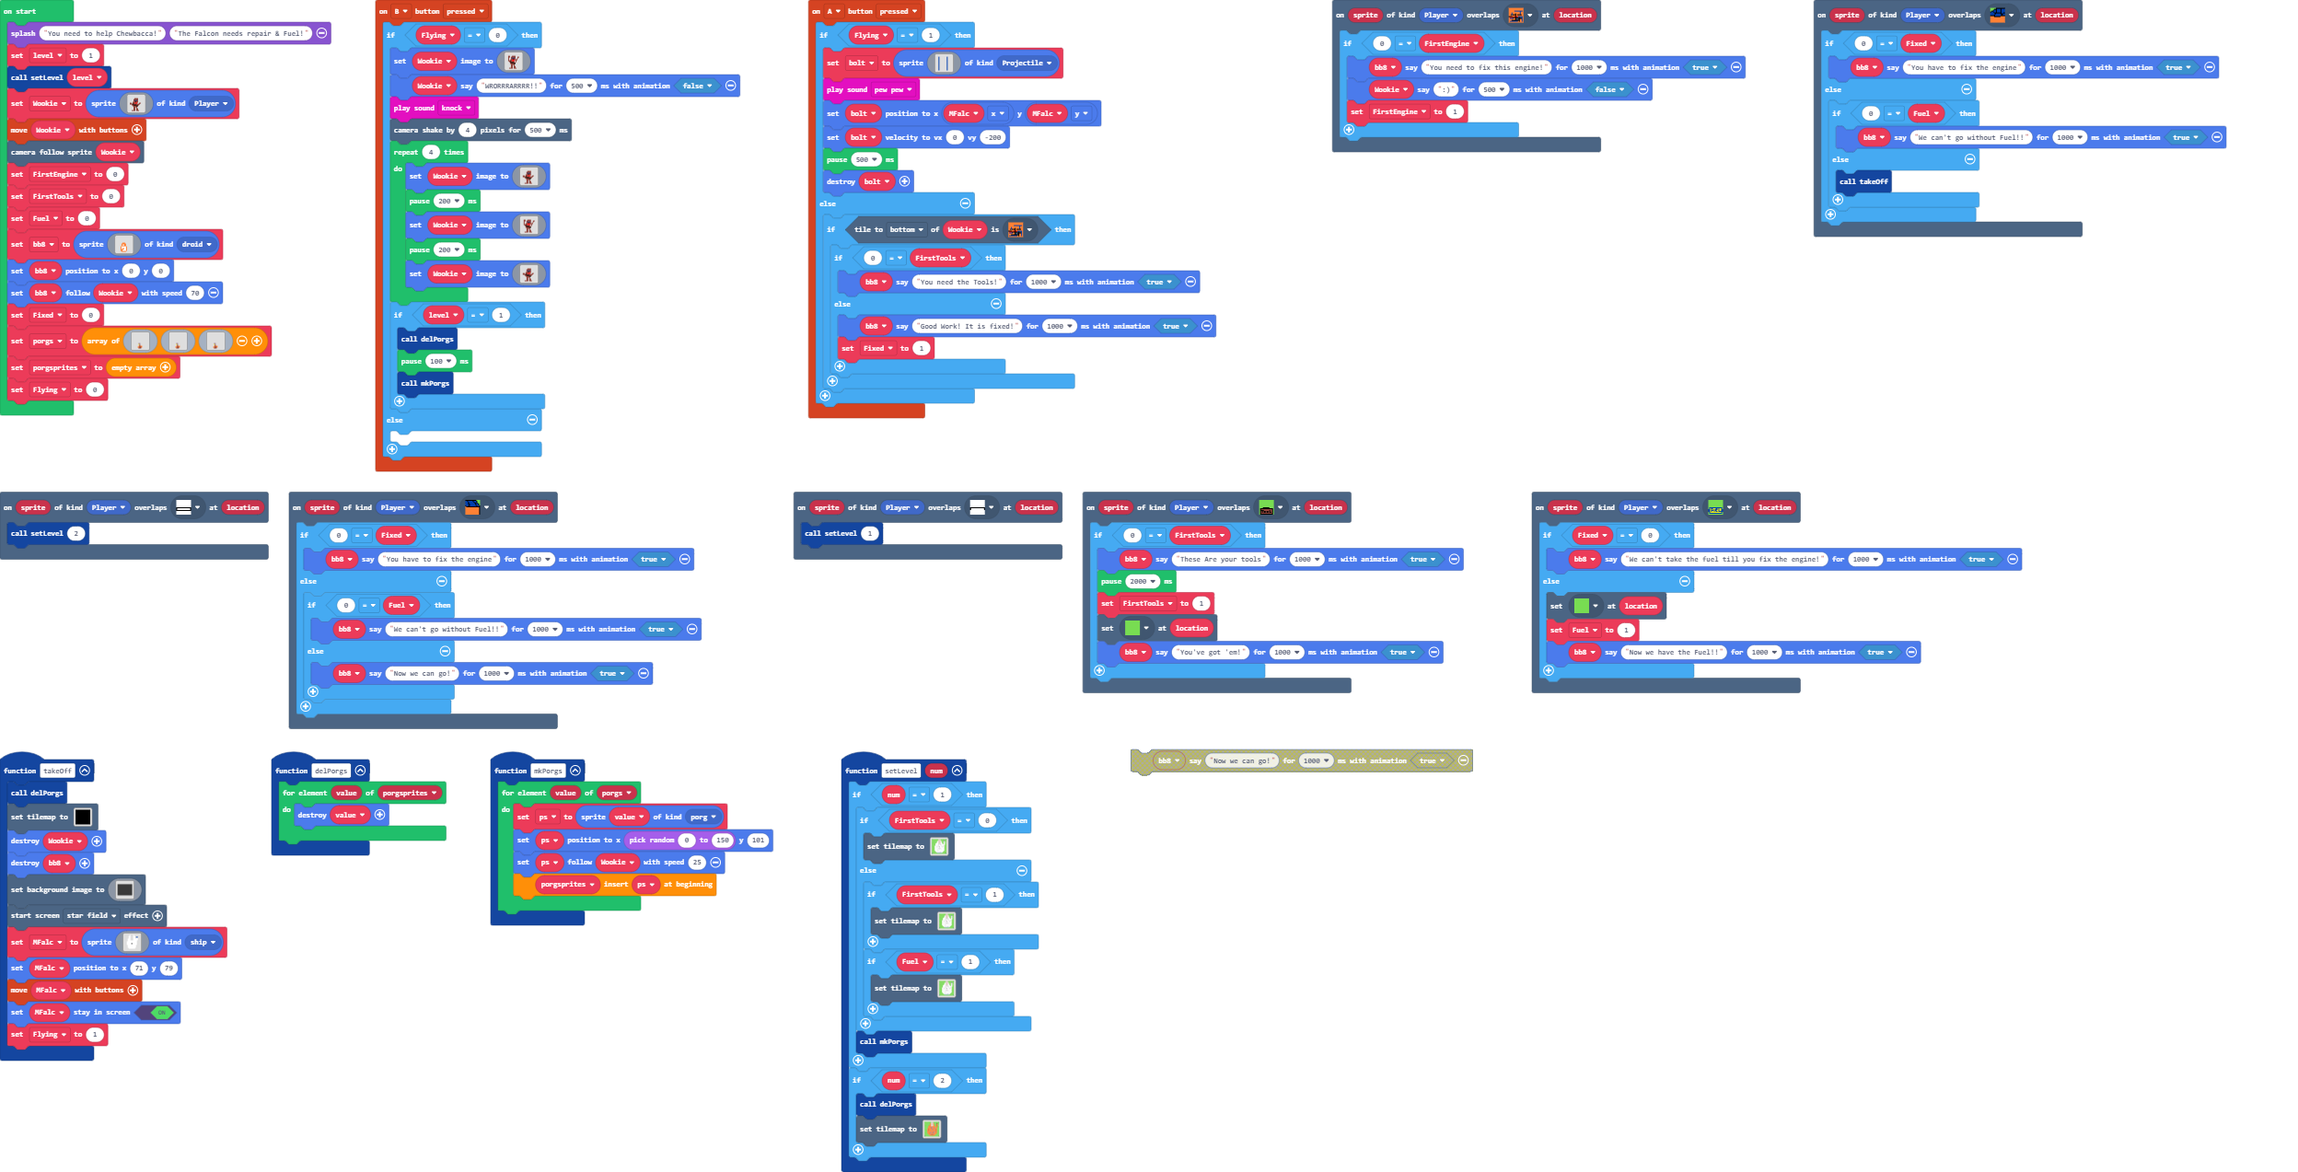
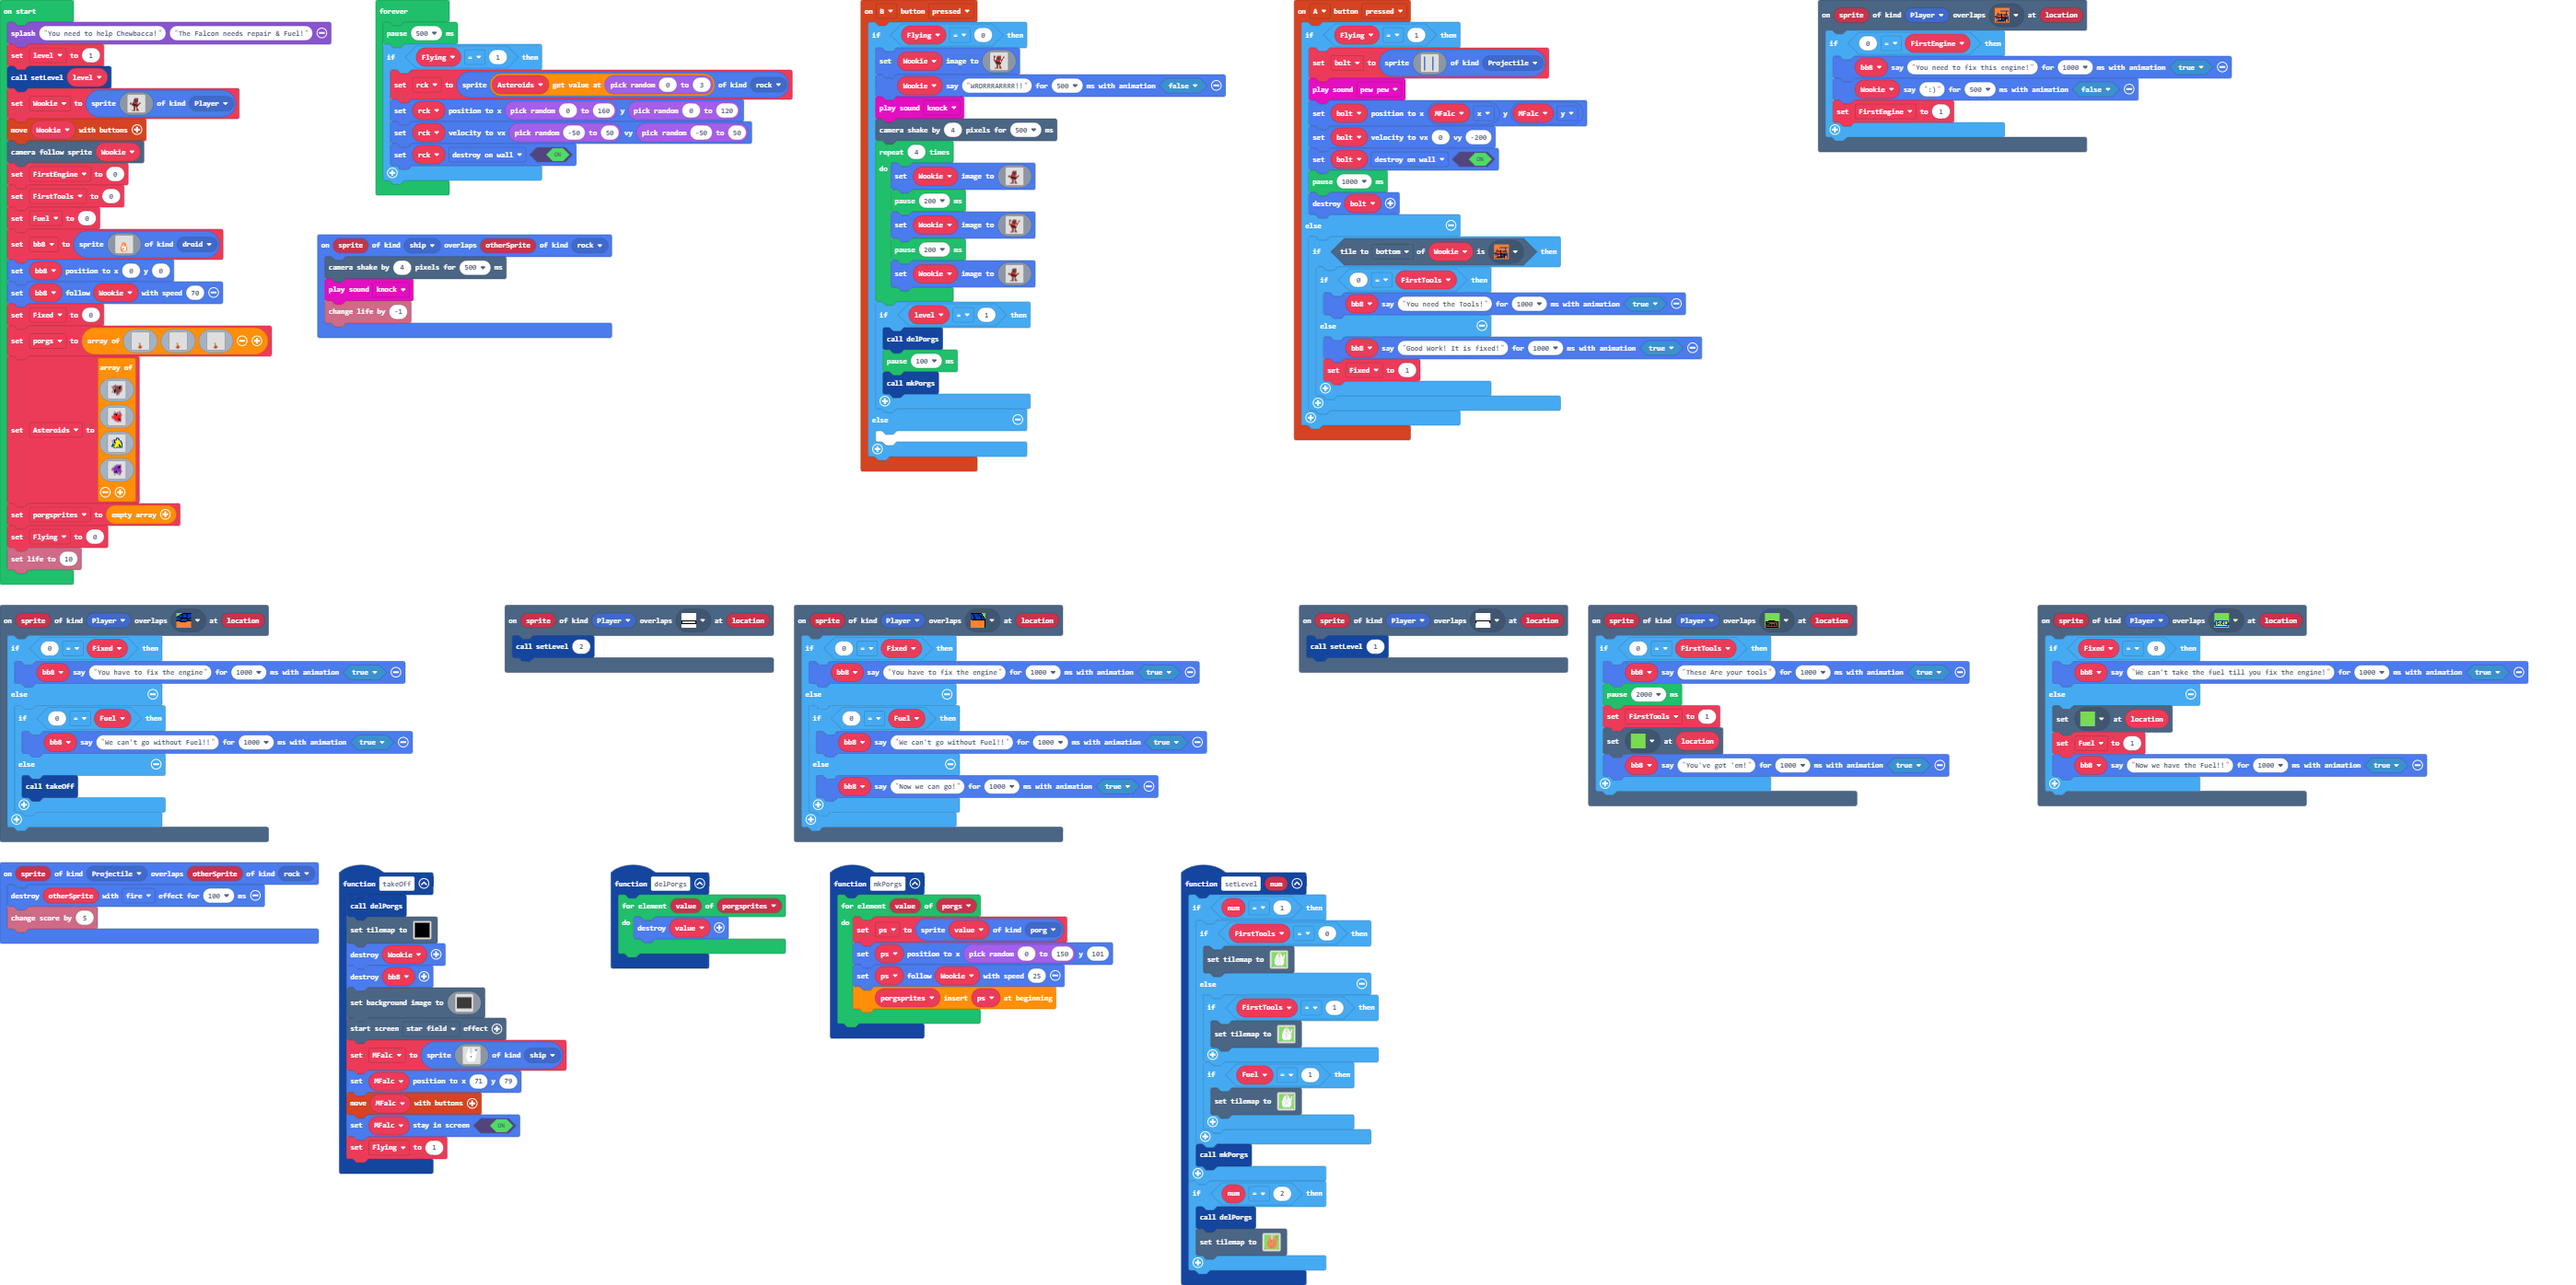
Update main.blocks, main.ts, images.g.jres, images.g.ts

diff --git a/images.g.ts b/images.g.ts
@@ -117,6 +117,82 @@ namespace myImages {
 . . 8 . . . . . . . . 8 . . . . 
 . . 8 . . . . . . . . 8 . . . . 
 `;
+            case "image7":
+            case "asteroid":return img`
+. . . . . . . . . . . . . . . . 
+. . . . . . . . . . . . . . . . 
+. . . . . . b . . . . . . . . . 
+. . . . b b e b b b b b b b . . 
+. . b b e e e e e e e f e b . . 
+. . b b b b e e e e f f e b . . 
+. . . b b b e e e e f e e b . . 
+. . . b e e e e e e e e e b . . 
+. . . . b f f e e e e e b b . . 
+. . . b b f e e e e e e b . . . 
+. . b b . f e e e e e b b . . . 
+. . . . b b b b e e b . . . . . 
+. . . . . . . b e b b . . . . . 
+. . . . . . . b b b . . . . . . 
+. . . . . . . . . . . . . . . . 
+. . . . . . . . . . . . . . . . 
+`;
+            case "image8":
+            case "asteroid0":return img`
+. . . . . . . . . . . . . . . . 
+. . . . . . . . . . . . . . . . 
+. . . . . b . . . . b b . . . . 
+. . . . . b b . b b b b . . . . 
+. . . . b . b b 2 b b 2 b . . . 
+. . . . b f f f 2 b b 2 b . . . 
+. . . . b 2 2 f 2 2 2 2 2 b . . 
+. . b b b 2 2 2 2 2 2 2 b . . . 
+. . b 2 2 2 2 2 2 2 2 2 b . . . 
+. . b b 2 2 2 2 2 2 2 2 b . . . 
+. . . b b 2 2 2 2 f f 2 b . . . 
+. . . . . b 2 2 2 2 f f b . . . 
+. . . . . b b b 2 2 2 2 b . . . 
+. . . . . . . b b b b b b . . . 
+. . . . . . . . . . . . . . . . 
+. . . . . . . . . . . . . . . . 
+`;
+            case "image9":
+            case "asteroid1":return img`
+. . . . . . . . . . . . . . . . 
+. . . . . . . . . . . . . . . . 
+. . . . . . . 8 8 8 . . . . . . 
+. . . . . . . 8 5 8 8 . . . . . 
+. . . . 8 8 8 8 5 5 8 . . . . . 
+. . b b . f 5 5 5 5 5 8 8 . . . 
+. . . b b f 5 5 5 5 5 5 8 . . . 
+. . . . b f f 5 5 5 5 5 8 8 . . 
+. . . 8 5 5 5 5 5 5 5 5 5 8 . . 
+. . . 8 8 8 5 5 5 5 f 5 5 8 . . 
+. . 8 8 8 b 5 5 5 5 f f 5 8 . . 
+. . 8 8 5 5 5 5 5 5 5 f 5 8 . . 
+. . . . 8 8 5 8 8 8 8 8 8 8 . . 
+. . . . . . b . . . . . . . . . 
+. . . . . . . . . . . . . . . . 
+. . . . . . . . . . . . . . . . 
+`;
+            case "image10":
+            case "asteroid2":return img`
+. . . . . . . . . . . . . . . . 
+. . . . . . . . . . . . . . . . 
+. . . . . . . b b b b b b . . . 
+. . . . . b b b a a a a b . . . 
+. . . . . b a a a a f f b . . . 
+. . . b b a a a a f f a b . . . 
+. . b b a a a a a a a a b . . . 
+. . b a a a a a a a a a b . . . 
+. . b b b a a a a a a a b . . . 
+. . . . b a a f a a a a a b . . 
+. . . . b f f f a b b a b . . . 
+. . . . b . b b a b b a b . . . 
+. . . . . b b . b b b b . . . . 
+. . . . . b . . . . b b . . . . 
+. . . . . . . . . . . . . . . . 
+. . . . . . . . . . . . . . . . 
+`;
         }
         return null;
     })

diff --git a/main.ts b/main.ts
@@ -2,6 +2,7 @@ namespace SpriteKind {
     export const droid = SpriteKind.create()
     export const porg = SpriteKind.create()
     export const ship = SpriteKind.create()
+    export const rock = SpriteKind.create()
 }
 function setLevel (num: number) {
     if (num == 1) {
@@ -84,7 +85,8 @@ controller.A.onEvent(ControllerButtonEvent.Pressed, function () {
         music.pewPew.play()
         bolt.setPosition(MFalc.x, MFalc.y)
         bolt.setVelocity(0, -200)
-        pause(500)
+        bolt.setFlag(SpriteFlag.DestroyOnWall, true)
+        pause(1000)
         bolt.destroy()
     } else {
         if (Wookie.tileKindAt(TileDirection.Bottom, assets.tile`engine`)) {
@@ -96,6 +98,11 @@ controller.A.onEvent(ControllerButtonEvent.Pressed, function () {
             }
         }
     }
+})
+sprites.onOverlap(SpriteKind.ship, SpriteKind.rock, function (sprite, otherSprite) {
+    scene.cameraShake(4, 500)
+    music.knock.play()
+    info.changeLifeBy(-1)
 })
 function takeOff () {
     delPorgs()
@@ -253,6 +260,10 @@ function mkPorgs () {
         porgsprites.unshift(ps)
     }
 }
+sprites.onOverlap(SpriteKind.Projectile, SpriteKind.rock, function (sprite, otherSprite) {
+    otherSprite.destroy(effects.fire, 100)
+    info.changeScoreBy(5)
+})
 scene.onOverlapTile(SpriteKind.Player, assets.tile`exit`, function (sprite, location) {
     setLevel(1)
 })
@@ -263,6 +274,7 @@ scene.onOverlapTile(SpriteKind.Player, assets.tile`engine`, function (sprite, lo
         FirstEngine = 1
     }
 })
+let rck: Sprite = null
 let ps: Sprite = null
 let MFalc: Sprite = null
 let bolt: Sprite = null
@@ -290,5 +302,21 @@ bb8.setPosition(0, 0)
 bb8.follow(Wookie, 70)
 Fixed = 0
 porgs = [assets.image`PORG`, assets.image`PORG`, assets.image`PORG`]
+let Asteroids = [
+assets.image`asteroid`,
+assets.image`asteroid0`,
+assets.image`asteroid1`,
+assets.image`asteroid2`
+]
 porgsprites = []
 Flying = 0
+info.setLife(10)
+forever(function () {
+    pause(500)
+    if (Flying == 1) {
+        rck = sprites.create(Asteroids[randint(0, 3)], SpriteKind.rock)
+        rck.setPosition(randint(0, 160), randint(0, 120))
+        rck.setVelocity(randint(-50, 50), randint(-50, 50))
+        rck.setFlag(SpriteFlag.DestroyOnWall, true)
+    }
+})
